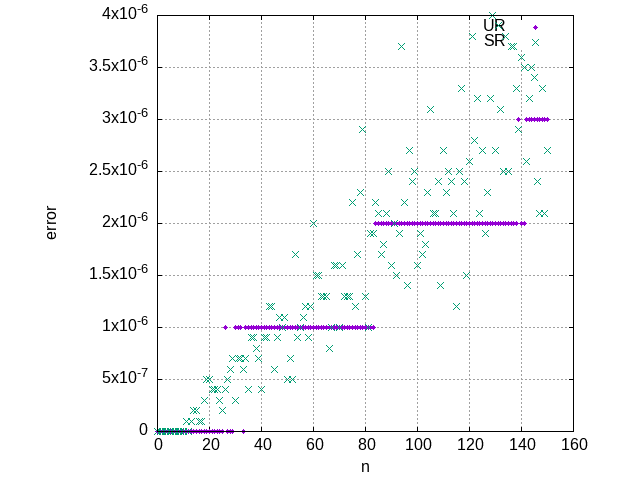
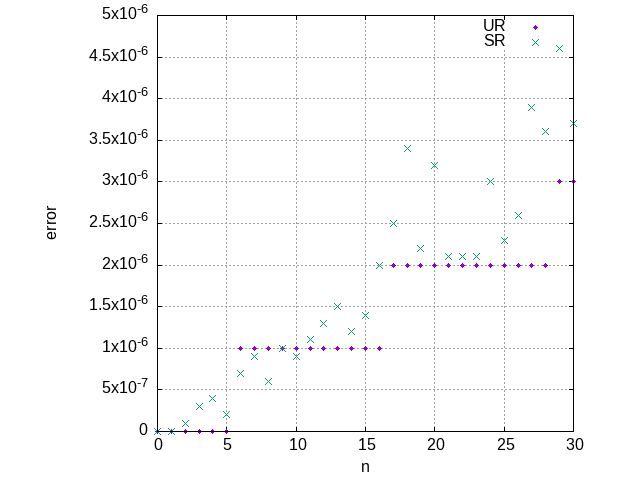
From n+1 to n+5 to make the plots clearer

diff --git a/exponentiation/main.c b/exponentiation/main.c
@@ -15,25 +15,25 @@ int main(int argc, char** argv){
     float tmp;
 
     if (ind == 0) {
-        for (int n = 0; n < N; n++){
+        for (int n = 0; n < N; n+=5){
             tmp = ref_exp_nr(x, n);
             err_nr = fabs((tmp - exp_nr(x, n)) / tmp);
             printf("%f\n", err_nr);
         }
     } else if (ind == 1) {
-        for (int n = 0; n < N; n++){
+        for (int n = 0; n < N; n+=5){
             tmp = ref_exp_nr(x, n);
             err_ni = fabs((tmp - exp_ni(x, n)) / tmp);
             printf("%f\n", err_ni);
         }
     } else if (ind == 2) {
-        for (int n = 0; n < N; n++){
+        for (int n = 0; n < N; n+=5){
             tmp = ref_exp_nr(x, n);
             err_rr = fabs((tmp - exp_rr(x, n)) / tmp);
             printf("%f\n", err_rr);
         }
     } else if (ind == 3) {
-        for (int n = 0; n < N; n++){
+        for (int n = 0; n < N; n+=5){
             tmp = ref_exp_nr(x, n);
             err_ri = fabs((tmp - exp_ri(x, n))/ tmp);
             printf("%f\n", err_ri);

diff --git a/exponentiation/SR.c b/exponentiation/SR.c
@@ -77,25 +77,25 @@ int main(int argc, char** argv){
     float tmp;
 
     if (ind == 0) {
-        for (int n = 0; n < N; n++){
+        for (int n = 0; n < N; n+=5){
             tmp = ref_exp(x, n);
             err_nr = fabs((tmp - exp_nr(x, n)) / tmp);
             printf("%f\n", err_nr);
         }
     } else if (ind == 1) {
-        for (int n = 0; n < N; n++){
+        for (int n = 0; n < N; n+=5){
             tmp = ref_exp(x, n);
             err_ni = fabs((tmp - exp_ni(x, n)) / tmp);
             printf("%f\n", err_ni);
         }
     } else if (ind == 2) {
-        for (int n = 0; n < N; n++){
+        for (int n = 0; n < N; n+=5){
             tmp = ref_exp(x, n);
             err_rr = fabs((tmp - exp_rr(x, n)) / tmp);
             printf("%f\n", err_rr);
         }
     } else if (ind == 3) {
-        for (int n = 0; n < N; n++){
+        for (int n = 0; n < N; n+=5){
             tmp = ref_exp(x, n);
             err_ri = fabs((tmp - exp_ri(x, n))/ tmp);
             printf("%f\n", err_ri);
